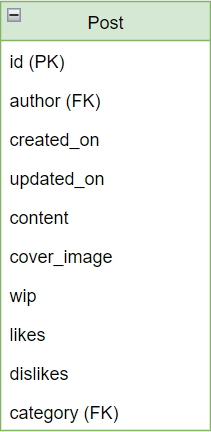
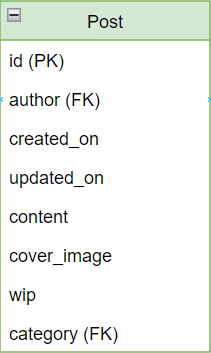
Change - Change Database Scheme
Change in database scheme for likes. Utilizing separate table instead of single field per model.

Changed region(s): [[0.0, 0.0, 1.0, 1.0], [0.2844, 0.7167, 0.5403, 0.779], [0.3981, 0.4674, 0.5118, 0.5297]]

diff --git a/docs/DATABASESCHEME.md b/docs/DATABASESCHEME.md
@@ -7,6 +7,7 @@
   - [**Profile Table**](#profile-table)
   - [**Post Table**](#post-table)
   - [**Category Table**](#category-table)
+  - [**Votes Table**](#votes-table)
   - [**Comments Table**](#comments-table)
   - [**Contact Forms Table**](#contact-forms-table)
 
@@ -31,6 +32,12 @@ Below are the planned fields for each table in the database managed by the API. 
 ## **Category Table**
 
 ![Category Table](/docs/databasetables/category-table.png)
+
+***
+
+## **Votes Table**
+
+![Votes Table](/docs/databasetables/votes-table.png)
 
 ***
 
